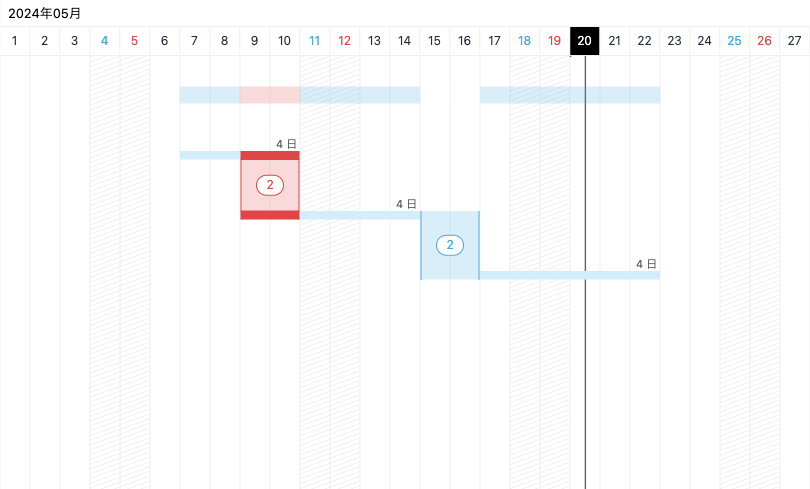
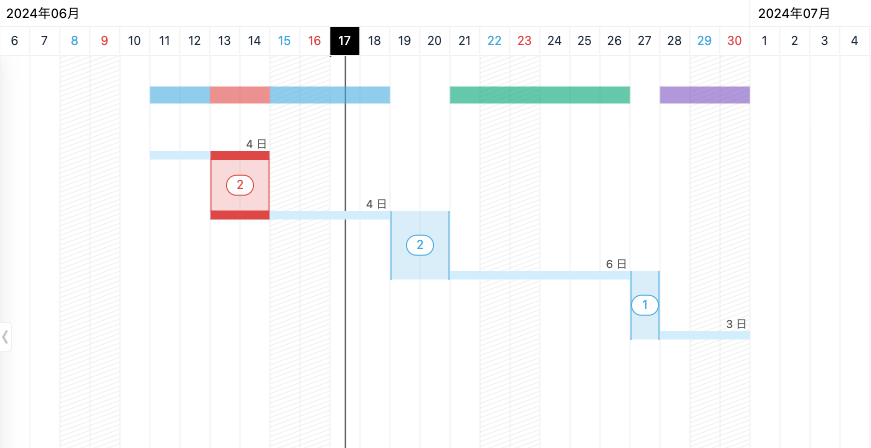
プロジェクトリソース、色設定を追加

Changed region(s): [[0.1543, 0.2812, 0.8642, 0.7812], [0.1543, 0.1562, 0.8642, 0.25], [0.0, 0.0, 0.9877, 0.125]]

diff --git a/projects/manage-project/index.md b/projects/manage-project/index.md
@@ -21,7 +21,7 @@ has_children: false
 
 1. プロジェクト一覧を開きます。
 2. [+新規プロジェクト]ボタンをクリックします。
-3. プロジェクト名、期間、プロジェクトメンバー / チームを選択し、[作成する]ボタンをクリックします。
+3. プロジェクト名、カラー、期間、プロジェクトメンバー / チームを選択し、[作成する]ボタンをクリックします。
 
    <table><tr><td>
    <img src="/assets/images/projects/manage-project/1.png">
@@ -40,7 +40,7 @@ has_children: false
    <img src="/assets/images/projects/manage-project/2.png" width="30%">
    </td></tr></table>
 
-3. プロジェクト名、期間、プロジェクトメンバー / チームを選択し、[変更する]ボタンをクリックします。
+3. プロジェクト名、カラー、期間、プロジェクトメンバー / チームを選択し、[変更する]ボタンをクリックします。
 
    <table><tr><td>
    <img src="/assets/images/projects/manage-project/3.png">
@@ -205,7 +205,7 @@ has_children: false
    <img src="/assets/images/projects/manage-project/10.png" width="30%">
    </td></tr></table>
 
-3. プロジェクト名、期間、プロジェクトメンバー / チームを選択し、[複製する]ボタンをクリックします。  
+3. プロジェクト名、カラー、期間、プロジェクトメンバー / チームを選択し、[複製する]ボタンをクリックします。  
 
    <table><tr><td>
    <img src="/assets/images/projects/manage-project/11.png" width="100%">

diff --git a/CHANGELOG.md b/CHANGELOG.md
@@ -7,11 +7,17 @@ layout: default
 
 <!-- All notable user-facing changes to this project are documented in this file. -->
 
+## Release v1.3.4
+
+### 新機能
+- プロジェクト設定でプロジェクトリソースが設定できるようになりました
+- リソース画面のバーの色が設定できるようになりました
+
 ## Release v1.3.3
 
 ### 新機能
 - タスクの担当者、関連リソースの選択で検索ができるようになりました
-- 設定画面のユーザー管理、チーム管理、リソース管理で検索ができるようになりました。
+- 設定画面のユーザー管理、チーム管理、リソース管理で検索ができるようになりました
 
 ## Release v1.3.2
 

diff --git a/resources/index.md b/resources/index.md
@@ -60,8 +60,8 @@ has_children: true
   <img src="/assets/images/resources/5.png">
   </td></tr></table>
 
-  - ツリーのタスクに対応したバーが表示されます。
-  - バーは上部のカレンダーの日付に合わせて表示されています。
+  - ツリーのタスクに対応したバーが上部のカレンダーの日付に合わせて表示されます。
+  - グループ化されたバーはプロジェクト設定のカラーが反映されます。
 
   {: .note }
   バーに表示された内容は

diff --git a/resources/task/assign-resources.md b/resources/task/assign-resources.md
@@ -29,7 +29,8 @@ has_children: false
     </td></tr></table>
 
   {: .note }
-  [設定>リソース管理]({% link settings/resources/index.md %})でアクティブのリソースが選択候補に表示されます。
+  [設定>リソース管理]({% link settings/resources/index.md %})でアクティブのリソースが選択候補に表示されます。  
+  プロジェクト設定で設定されたプロジェクトリソースが優先表示されます。
 
 ## リソースの関連付けを解除する
 

diff --git a/roadmap/task/assign-resources.md b/roadmap/task/assign-resources.md
@@ -29,7 +29,8 @@ has_children: false
     </td></tr></table>
 
   {: .note }
-  [設定>リソース管理]({% link settings/resources/index.md %})でアクティブのリソースが選択候補に表示されます。
+  [設定>リソース管理]({% link settings/resources/index.md %})でアクティブのリソースが選択候補に表示されます。  
+  プロジェクト設定で設定されたプロジェクトリソースが優先表示されます。
 
 ## リソースの関連付けを解除する
 

diff --git a/projects/task/assign-resources.md b/projects/task/assign-resources.md
@@ -45,7 +45,8 @@ has_children: false
    </td></tr></table>
 
 {: .note }
-[設定>リソース管理]({% link settings/resources/index.md %})でアクティブのリソースが選択候補に表示されます。
+[設定>リソース管理]({% link settings/resources/index.md %})でアクティブのリソースが選択候補に表示されます。  
+プロジェクト設定で設定されたプロジェクトリソースが優先表示されます。
 
 ## リソースの関連付けを解除する
 

diff --git a/roadmap/index.md b/roadmap/index.md
@@ -63,8 +63,7 @@ has_children: true
   <img src="/assets/images/roadmap/5.png">
   </td></tr></table>
 
-  - ツリーのプロジェクト、またはタスクに対応したバーが表示されます。
-  - バーは上部のカレンダーの日付に合わせて表示されています。
+  - ツリーのプロジェクト、またはタスクに対応したバーが上部のカレンダーの日付に合わせて表示されます。
 
   {: .note }
   バーに表示された内容は
